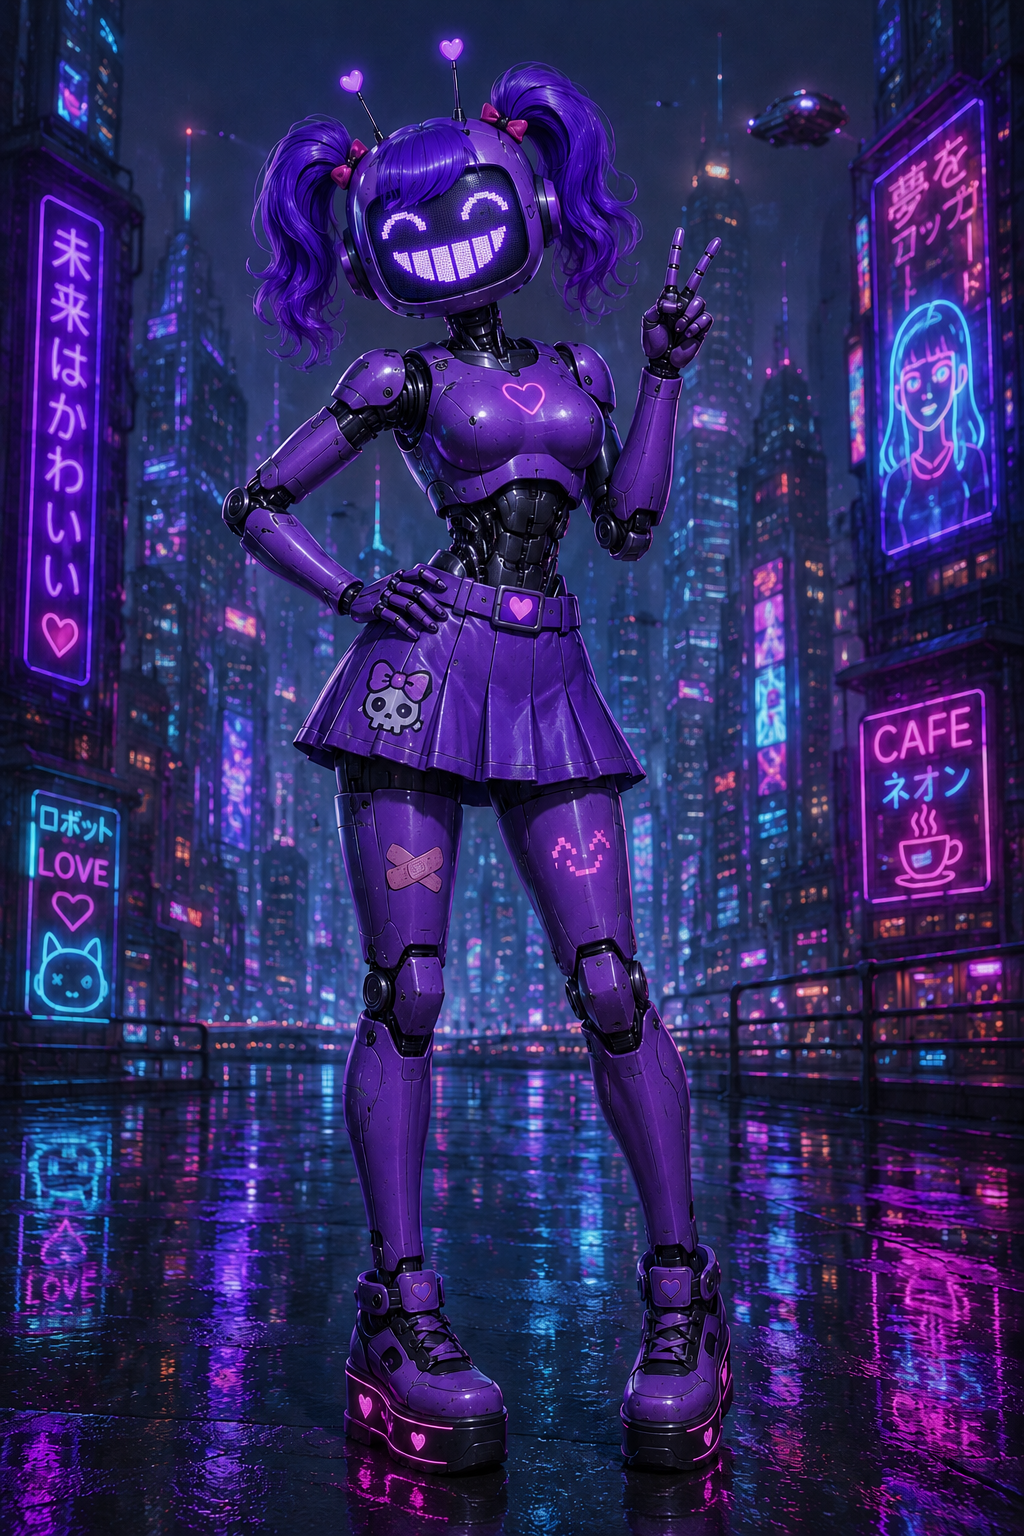
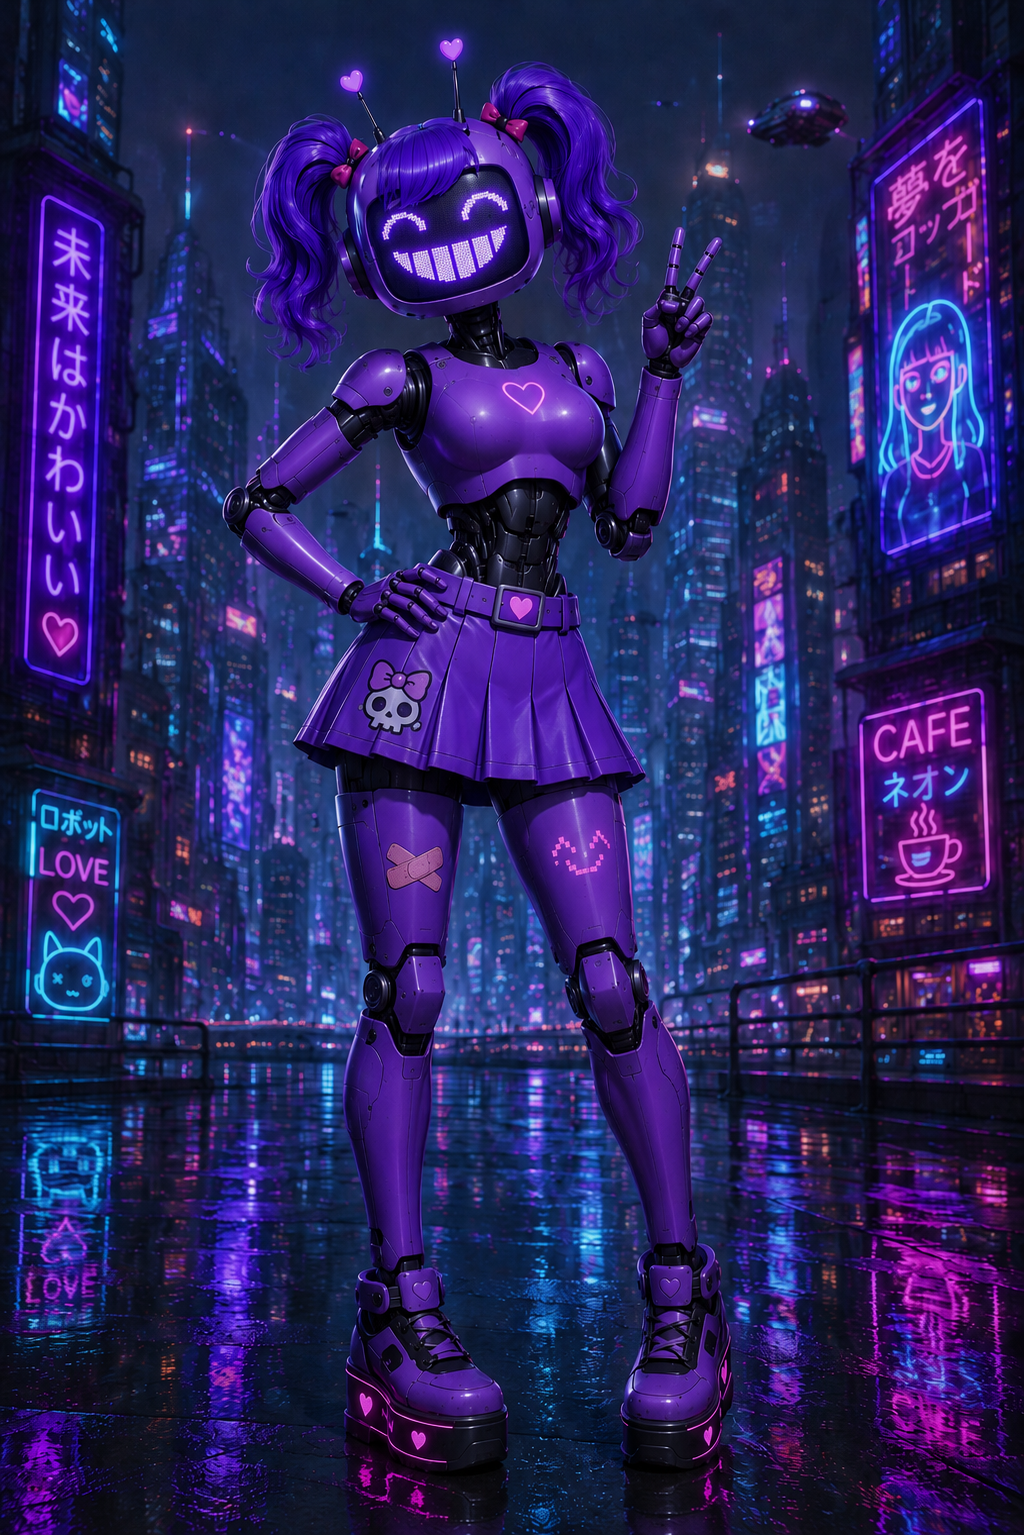
added "mixed" and "dramatic" bot styles

diff --git a/core/src/main/kotlin/com/drcorchit/cards/cyberpunk/Placard.kt b/core/src/main/kotlin/com/drcorchit/cards/cyberpunk/Placard.kt
@@ -13,7 +13,7 @@ class Placard(val bot: Rococobot, val prefix: String) : Drawable {
 
     override val name = bot.name
 
-    val image = bot.getImage(prefix)
+    var image: AnimatedSprite? = null
 
     override val outputLocation = "output/images/full/cyberpunk/placard/${name.normalize()}.png"
 
@@ -21,7 +21,7 @@ class Placard(val bot: Rococobot, val prefix: String) : Drawable {
         val mx = Gdx.input.x.toFloat()
         val my = Gdx.graphics.height - Gdx.input.y.toFloat()
 
-        image.draw(Draw.batch, 125f, 130f)
+        image?.draw(Draw.batch, 125f, 130f)
         bot.signatureGlow.draw(Draw.batch, sigX, sigY, rotation = sigAngle)
         bot.signature.draw(Draw.batch, sigX, sigY, rotation = sigAngle)
         screen.draw(Draw.batch, 136f, 136f, 1000f, 1523f)
@@ -30,13 +30,16 @@ class Placard(val bot: Rococobot, val prefix: String) : Drawable {
         //Draw.drawText(100f, 100f, Fonts.abilityFont, "$mx, $my")
     }
 
-    override fun updateGraphic(): AnimatedSprite {
+    override fun updateGraphic(): AnimatedSprite? {
+        image = bot.getImage(prefix)
         return image
     }
 
     companion object {
+        val botsMixed = Rococobot.entries.map { Placard(it, "mixed") }
         val botsBallerina = Rococobot.entries.map { Placard(it, "ballerina") }
         val botsConfident = Rococobot.entries.map { Placard(it, "confident") }
+        val botsDramatic = Rococobot.entries.map { Placard(it, "dramatic") }
         val botsPretty = Rococobot.entries.map { Placard(it, "pretty") }
         val botsSilly0 = Rococobot.entries.map { Placard(it, "silly") }
         val botsSilly1 = Rococobot.entries.map { Placard(it, "silly1") }
@@ -47,9 +50,10 @@ class Placard(val bot: Rococobot, val prefix: String) : Drawable {
             Placard(Rococobot.Flamme, it)
         }
 
-        val all = botsBallerina + botsConfident + botsPretty + botsSilly0 + botsSilly1 + botsSilly2 + botsSilly3
+        val all =
+            botsBallerina + botsConfident + botsDramatic + botsPretty + botsSilly0 + botsSilly1 + botsSilly2 + botsSilly3
 
-        val bots = botsSilly1 + botsSilly2
+        val bots = botsMixed + botsSilly2
 
         val placard = Textures.placard2.asSprite()
         val screen = Textures.screen2.asSprite()
